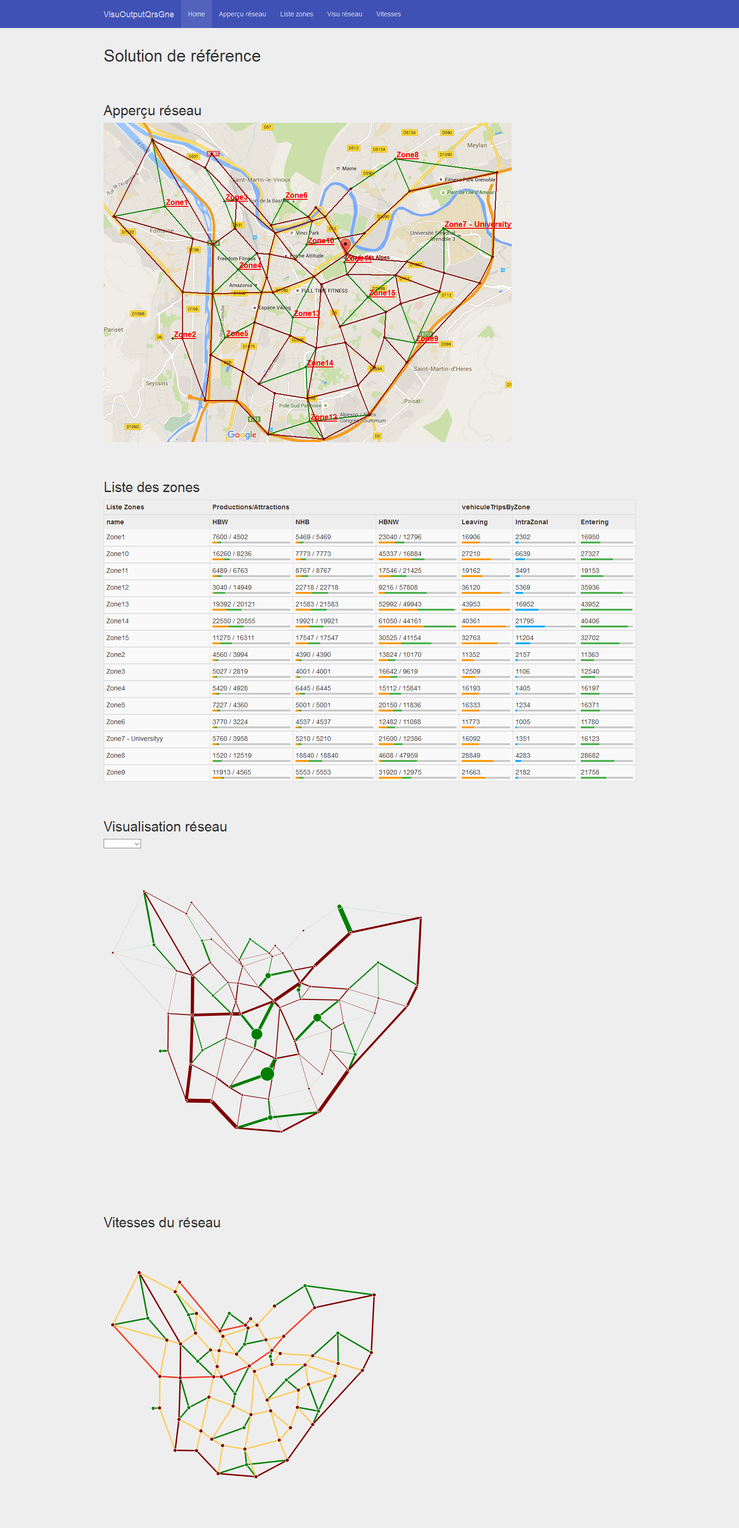
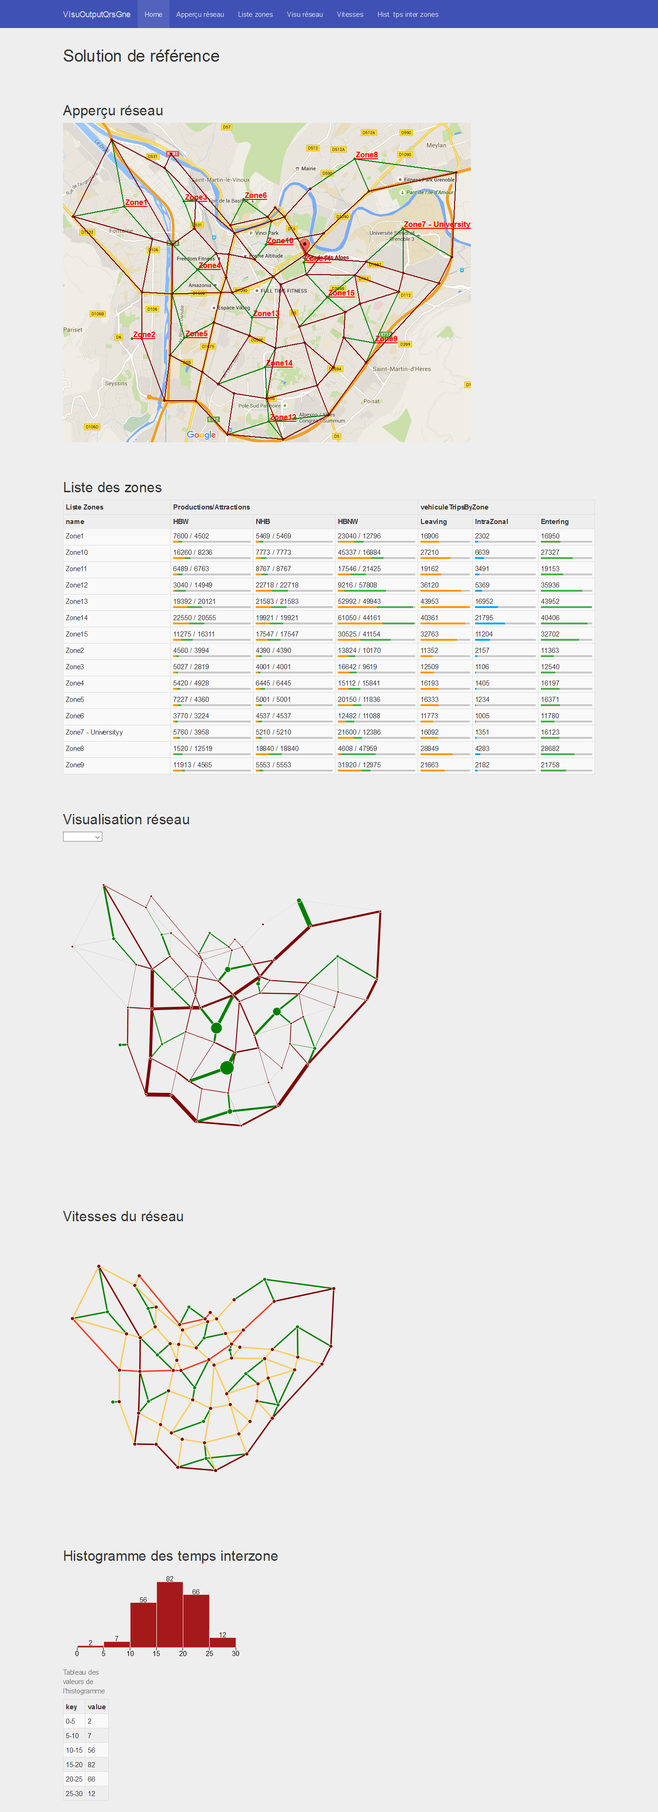
ajout d'un histogramme sur la répartition des temps interzone du réseau

Changed region(s): [[0.0936, 0.0, 0.905, 0.8103], [0.0936, 0.8414, 0.4993, 0.9973], [0.4993, 0.6544, 0.5305, 0.6856]]

diff --git a/css/style.css b/css/style.css
@@ -1,1 +1,1 @@
-*{-moz-box-sizing:border-box;-webkit-box-sizing:border-box;box-sizing:border-box}body{margin-top:80px}.caretUp,.caretDown{width:0px;height:0px;margin-left:2px;vertical-align:middle;display:inline-block;border-right:4px solid transparent;border-left:4px solid transparent;border-bottom:4px dashed;border-top:none}.caretDown{border-top:4px dashed;border-bottom:none}.lineCtrl .progress{margin-bottom:0}.cliquable{cursor:pointer}.vertical{display:inline-block;width:28px;height:5px;-moz-transform:rotate(-90deg);-ms-transform:rotate(-90deg);-webkit-transform:rotate(-90deg);transform:rotate(-90deg)}.panneau{background-color:#eee;position:absolute;top:0;left:0;right:0;bottom:0;width:100%;height:100%;overflow-x:hidden;overflow-y:scroll;-webkit-overflow-scrolling:touch;-moz-transition-duration:0.3s;-o-transition-duration:0.3s;-webkit-transition-duration:0.3s;transition-duration:0.3s;z-index:5}.panneau-padding{padding:0 20px}.panneau-homeMap{overflow:hidden}.left{-moz-transform:translate3D(-100%, 0, 0);-ms-transform:translate3D(-100%, 0, 0);-webkit-transform:translate3D(-100%, 0, 0);transform:translate3D(-100%, 0, 0)}.center{-moz-transform:translate3D(0, 0, 0);-ms-transform:translate3D(0, 0, 0);-webkit-transform:translate3D(0, 0, 0);transform:translate3D(0, 0, 0)}.right{-moz-transform:translate3D(100%, 0, 0);-ms-transform:translate3D(100%, 0, 0);-webkit-transform:translate3D(100%, 0, 0);transform:translate3D(100%, 0, 0)}.top{-moz-transform:translate3D(0, -100%, 0);-ms-transform:translate3D(0, -100%, 0);-webkit-transform:translate3D(0, -100%, 0);transform:translate3D(0, -100%, 0)}.bottom{-moz-transform:translate3D(0, 100%, 0);-ms-transform:translate3D(0, 100%, 0);-webkit-transform:translate3D(0, 100%, 0);transform:translate3D(0, 100%, 0)}.back{-moz-transition-duration:0.3s;-o-transition-duration:0.3s;-webkit-transition-duration:0.3s;transition-duration:0.3s;position:absolute;top:0;left:0;z-index:10}.notice{position:absolute;left:50%;top:50%;height:auto;width:auto;text-align:center;transform:translateX(-50%) translateY(-50%);z-index:100;background-color:#C7C7C7;padding:10px;-moz-border-radius:5px;-webkit-border-radius:5px;border-radius:5px}.glyphicon-map-marker{background-image:url("../img/maps/svg/ic_place_24px.svg");background-position:0 0;background-size:24px 24px;height:24px;width:24px}.glyphicon-map-marker:before{content:""}.glyphicon-bike{background-image:url("../img/maps/svg/ic_directions_bike_24px.svg");background-position:0 0;background-size:24px 24px;height:24px;width:24px}.glyphicon-bike:before{content:""}.glyphicon-ferry{background-image:url("../img/maps/svg/ic_directions_ferry_24px.svg");background-position:0 0;background-size:24px 24px;height:24px;width:24px}.glyphicon-ferry:before{content:""}.glyphicon-car{background-image:url("../img/maps/svg/ic_directions_car_24px.svg");background-position:0 0;background-size:24px 24px;height:24px;width:24px}.glyphicon-car:before{content:""}.glyphicon-train{background-image:url("../img/maps/svg/ic_directions_train_24px.svg");background-position:0 0;background-size:24px 24px;height:24px;width:24px}.glyphicon-train:before{content:""}.glyphicon-metro{background-image:url("../img/maps/svg/ic_directions_subway_24px.svg");background-position:0 0;background-size:24px 24px;height:24px;width:24px}.glyphicon-metro:before{content:""}.glyphicon-bus{background-image:url("../img/maps/svg/ic_directions_bus_24px.svg");background-position:0 0;background-size:24px 24px;height:24px;width:24px}.glyphicon-bus:before{content:""}.glyphicon-foot{background-image:url("../img/maps/svg/ic_directions_walk_24px.svg");background-position:0 0;background-size:24px 24px;height:24px;width:24px}.glyphicon-foot:before{content:""}.glyphicon-my-location{background-image:url("../img/maps/svg/ic_my_location_24px.svg");background-position:0 0;background-size:24px 24px;height:24px;width:24px}.glyphicon-my-location:before{content:""}.btn-fa-container{margin-bottom:6px;position:absolute;bottom:0;right:0;z-index:100;-moz-transition-duration:0.3s;-o-transition-duration:0.3s;-webkit-transition-duration:0.3s;transition-duration:0.3s;-moz-transform:translate3D(0, 0, 0);-ms-transform:translate3D(0, 0, 0);-webkit-transform:translate3D(0, 0, 0);transform:translate3D(0, 0, 0)}.btn-fa-container.showBottomSheet{-moz-transform:translate3D(0, -56px, 0);-ms-transform:translate3D(0, -56px, 0);-webkit-transform:translate3D(0, -56px, 0);transform:translate3D(0, -56px, 0)}.btn-fa{width:56px;height:56px;line-height:56px;-moz-border-radius:50%;-webkit-border-radius:50%;border-radius:50%;margin:0 16px 16px 0;display:block;outline:none;text-align:center;-moz-box-shadow:rgba(0,0,0,0.14) 0px 0px 4px,rgba(0,0,0,0.28) 0px 4px 8px;-webkit-box-shadow:rgba(0,0,0,0.14) 0px 0px 4px,rgba(0,0,0,0.28) 0px 4px 8px;box-shadow:rgba(0,0,0,0.14) 0px 0px 4px,rgba(0,0,0,0.28) 0px 4px 8px}.btn-fa:hover,.btn-fa:active{-moz-box-shadow:rgba(0,0,0,0.18) 0 0 8px,rgba(0,0,0,0.36) 0 8px 16px;-webkit-box-shadow:rgba(0,0,0,0.18) 0 0 8px,rgba(0,0,0,0.36) 0 8px 16px;box-shadow:rgba(0,0,0,0.18) 0 0 8px,rgba(0,0,0,0.36) 0 8px 16px;-moz-transition-duration:0.3s;-o-transition-duration:0.3s;-webkit-transition-duration:0.3s;transition-duration:0.3s;outline:none}.btn-fa-gps,.btn-fa-gps:active{background:#fff url("../img/maps/svg/ic_my_location_24px.svg") center center no-repeat !important}.btn-fa-gps:active{background-color:#eee;-moz-transition-duration:0.3s;-o-transition-duration:0.3s;-webkit-transition-duration:0.3s;transition-duration:0.3s}.btn-fa-trip,.btn-fa-trip:active{background:#4285f4 url("../img/maps/1x_web/ic_directions_white_24dp.png") center center no-repeat !important}.btn-fa-trip:active{background-color:#79a8fa;-moz-transition-duration:0.3s;-o-transition-duration:0.3s;-webkit-transition-duration:0.3s;transition-duration:0.3s}.axis path,.axis line{fill:none;stroke:#000;shape-rendering:crispEdges}.bar{fill:#a6191b}.bar:hover{fill:#fec503}.x.axis path{display:none}.d3-tip{line-height:1;padding:12px;background:rgba(0,0,0,0.8);color:#fff;border-radius:2px}.d3-tip:after{box-sizing:border-box;display:inline;font-size:10px;width:100%;line-height:1;color:rgba(0,0,0,0.8);content:"\25BC";position:absolute;text-align:center}.d3-tip.n:after{margin:-1px 0 0 0;top:100%;left:0}.bar-default .bar{fill:#009688}.bar-black .bar{fill:#000000}.bar-white .bar{fill:#ffffff}.bar-inverse .bar{fill:#3f51b5}.bar-primary .bar{fill:#009688}.bar-success .bar{fill:#4caf50}.bar-info .bar{fill:#03a9f4}.bar-warning .bar{fill:#ff5722}.bar-danger .bar{fill:#f44336}.bar-material-red .bar{fill:#f44336}.bar-material-pink .bar{fill:#e91e63}.bar-material-purple .bar{fill:#9c27b0}.bar-material-deep-purple .bar{fill:#673ab7}.bar-material-indigo .bar{fill:#3f51b5}.bar-material-blue .bar{fill:#2196f3}.bar-material-light-blue .bar{fill:#03a9f4}.bar-material-cyan .bar{fill:#00bcd4}.bar-material-teal .bar{fill:#009688}.bar-material-green .bar{fill:#4caf50}.bar-material-light-green .bar{fill:#8bc34a}.bar-material-lime .bar{fill:#cddc39}.bar-material-yellow .bar{fill:#ffeb3b}.bar-material-amber .bar{fill:#ffc107}.bar-material-orange .bar{fill:#ff9800}.bar-material-deep-orange .bar{fill:#ff5722}.bar-material-brown .bar{fill:#795548}.bar-material-grey .bar{fill:#9e9e9e}.bar-material-blue-grey .bar{fill:#607d8b}
+*{-moz-box-sizing:border-box;-webkit-box-sizing:border-box;box-sizing:border-box}body{margin-top:80px}.caretUp,.caretDown{width:0px;height:0px;margin-left:2px;vertical-align:middle;display:inline-block;border-right:4px solid transparent;border-left:4px solid transparent;border-bottom:4px dashed;border-top:none}.caretDown{border-top:4px dashed;border-bottom:none}.lineCtrl .progress{margin-bottom:0}.cliquable{cursor:pointer}.vertical{display:inline-block;width:28px;height:5px;-moz-transform:rotate(-90deg);-ms-transform:rotate(-90deg);-webkit-transform:rotate(-90deg);transform:rotate(-90deg)}.panneau{background-color:#eee;position:absolute;top:0;left:0;right:0;bottom:0;width:100%;height:100%;overflow-x:hidden;overflow-y:scroll;-webkit-overflow-scrolling:touch;-moz-transition-duration:0.3s;-o-transition-duration:0.3s;-webkit-transition-duration:0.3s;transition-duration:0.3s;z-index:5}.panneau-padding{padding:0 20px}.panneau-homeMap{overflow:hidden}.left{-moz-transform:translate3D(-100%, 0, 0);-ms-transform:translate3D(-100%, 0, 0);-webkit-transform:translate3D(-100%, 0, 0);transform:translate3D(-100%, 0, 0)}.center{-moz-transform:translate3D(0, 0, 0);-ms-transform:translate3D(0, 0, 0);-webkit-transform:translate3D(0, 0, 0);transform:translate3D(0, 0, 0)}.right{-moz-transform:translate3D(100%, 0, 0);-ms-transform:translate3D(100%, 0, 0);-webkit-transform:translate3D(100%, 0, 0);transform:translate3D(100%, 0, 0)}.top{-moz-transform:translate3D(0, -100%, 0);-ms-transform:translate3D(0, -100%, 0);-webkit-transform:translate3D(0, -100%, 0);transform:translate3D(0, -100%, 0)}.bottom{-moz-transform:translate3D(0, 100%, 0);-ms-transform:translate3D(0, 100%, 0);-webkit-transform:translate3D(0, 100%, 0);transform:translate3D(0, 100%, 0)}.back{-moz-transition-duration:0.3s;-o-transition-duration:0.3s;-webkit-transition-duration:0.3s;transition-duration:0.3s;position:absolute;top:0;left:0;z-index:10}.notice{position:absolute;left:50%;top:50%;height:auto;width:auto;text-align:center;transform:translateX(-50%) translateY(-50%);z-index:100;background-color:#C7C7C7;padding:10px;-moz-border-radius:5px;-webkit-border-radius:5px;border-radius:5px}.glyphicon-map-marker{background-image:url("../img/maps/svg/ic_place_24px.svg");background-position:0 0;background-size:24px 24px;height:24px;width:24px}.glyphicon-map-marker:before{content:""}.glyphicon-bike{background-image:url("../img/maps/svg/ic_directions_bike_24px.svg");background-position:0 0;background-size:24px 24px;height:24px;width:24px}.glyphicon-bike:before{content:""}.glyphicon-ferry{background-image:url("../img/maps/svg/ic_directions_ferry_24px.svg");background-position:0 0;background-size:24px 24px;height:24px;width:24px}.glyphicon-ferry:before{content:""}.glyphicon-car{background-image:url("../img/maps/svg/ic_directions_car_24px.svg");background-position:0 0;background-size:24px 24px;height:24px;width:24px}.glyphicon-car:before{content:""}.glyphicon-train{background-image:url("../img/maps/svg/ic_directions_train_24px.svg");background-position:0 0;background-size:24px 24px;height:24px;width:24px}.glyphicon-train:before{content:""}.glyphicon-metro{background-image:url("../img/maps/svg/ic_directions_subway_24px.svg");background-position:0 0;background-size:24px 24px;height:24px;width:24px}.glyphicon-metro:before{content:""}.glyphicon-bus{background-image:url("../img/maps/svg/ic_directions_bus_24px.svg");background-position:0 0;background-size:24px 24px;height:24px;width:24px}.glyphicon-bus:before{content:""}.glyphicon-foot{background-image:url("../img/maps/svg/ic_directions_walk_24px.svg");background-position:0 0;background-size:24px 24px;height:24px;width:24px}.glyphicon-foot:before{content:""}.glyphicon-my-location{background-image:url("../img/maps/svg/ic_my_location_24px.svg");background-position:0 0;background-size:24px 24px;height:24px;width:24px}.glyphicon-my-location:before{content:""}.btn-fa-container{margin-bottom:6px;position:absolute;bottom:0;right:0;z-index:100;-moz-transition-duration:0.3s;-o-transition-duration:0.3s;-webkit-transition-duration:0.3s;transition-duration:0.3s;-moz-transform:translate3D(0, 0, 0);-ms-transform:translate3D(0, 0, 0);-webkit-transform:translate3D(0, 0, 0);transform:translate3D(0, 0, 0)}.btn-fa-container.showBottomSheet{-moz-transform:translate3D(0, -56px, 0);-ms-transform:translate3D(0, -56px, 0);-webkit-transform:translate3D(0, -56px, 0);transform:translate3D(0, -56px, 0)}.btn-fa{width:56px;height:56px;line-height:56px;-moz-border-radius:50%;-webkit-border-radius:50%;border-radius:50%;margin:0 16px 16px 0;display:block;outline:none;text-align:center;-moz-box-shadow:rgba(0,0,0,0.14) 0px 0px 4px,rgba(0,0,0,0.28) 0px 4px 8px;-webkit-box-shadow:rgba(0,0,0,0.14) 0px 0px 4px,rgba(0,0,0,0.28) 0px 4px 8px;box-shadow:rgba(0,0,0,0.14) 0px 0px 4px,rgba(0,0,0,0.28) 0px 4px 8px}.btn-fa:hover,.btn-fa:active{-moz-box-shadow:rgba(0,0,0,0.18) 0 0 8px,rgba(0,0,0,0.36) 0 8px 16px;-webkit-box-shadow:rgba(0,0,0,0.18) 0 0 8px,rgba(0,0,0,0.36) 0 8px 16px;box-shadow:rgba(0,0,0,0.18) 0 0 8px,rgba(0,0,0,0.36) 0 8px 16px;-moz-transition-duration:0.3s;-o-transition-duration:0.3s;-webkit-transition-duration:0.3s;transition-duration:0.3s;outline:none}.btn-fa-gps,.btn-fa-gps:active{background:#fff url("../img/maps/svg/ic_my_location_24px.svg") center center no-repeat !important}.btn-fa-gps:active{background-color:#eee;-moz-transition-duration:0.3s;-o-transition-duration:0.3s;-webkit-transition-duration:0.3s;transition-duration:0.3s}.btn-fa-trip,.btn-fa-trip:active{background:#4285f4 url("../img/maps/1x_web/ic_directions_white_24dp.png") center center no-repeat !important}.btn-fa-trip:active{background-color:#79a8fa;-moz-transition-duration:0.3s;-o-transition-duration:0.3s;-webkit-transition-duration:0.3s;transition-duration:0.3s}.axis path,.axis line{fill:none;stroke:#000;shape-rendering:crispEdges}.bar{fill:#a6191b}.bar:hover{fill:#fec503}.x.axis path{display:none}.d3-tip{line-height:1;padding:12px;background:rgba(0,0,0,0.8);color:#fff;border-radius:2px}.d3-tip:after{box-sizing:border-box;display:inline;font-size:10px;width:100%;line-height:1;color:rgba(0,0,0,0.8);content:"\25BC";position:absolute;text-align:center}.d3-tip.n:after{margin:-1px 0 0 0;top:100%;left:0}.bar text{fill:#222}.bar-default .bar{fill:#009688}.bar-black .bar{fill:#000000}.bar-white .bar{fill:#ffffff}.bar-inverse .bar{fill:#3f51b5}.bar-primary .bar{fill:#009688}.bar-success .bar{fill:#4caf50}.bar-info .bar{fill:#03a9f4}.bar-warning .bar{fill:#ff5722}.bar-danger .bar{fill:#f44336}.bar-material-red .bar{fill:#f44336}.bar-material-pink .bar{fill:#e91e63}.bar-material-purple .bar{fill:#9c27b0}.bar-material-deep-purple .bar{fill:#673ab7}.bar-material-indigo .bar{fill:#3f51b5}.bar-material-blue .bar{fill:#2196f3}.bar-material-light-blue .bar{fill:#03a9f4}.bar-material-cyan .bar{fill:#00bcd4}.bar-material-teal .bar{fill:#009688}.bar-material-green .bar{fill:#4caf50}.bar-material-light-green .bar{fill:#8bc34a}.bar-material-lime .bar{fill:#cddc39}.bar-material-yellow .bar{fill:#ffeb3b}.bar-material-amber .bar{fill:#ffc107}.bar-material-orange .bar{fill:#ff9800}.bar-material-deep-orange .bar{fill:#ff5722}.bar-material-brown .bar{fill:#795548}.bar-material-grey .bar{fill:#9e9e9e}.bar-material-blue-grey .bar{fill:#607d8b}

diff --git a/js/components/timehistogram.js b/js/components/timehistogram.js
@@ -1,0 +1,108 @@
+app.directive('timehistogram', function($rootScope) {
+    return {
+        restrict: 'EA',
+        scope: {
+          odtemps: "="
+        },
+        link: function(scope, iElement, iAttrs) {
+            var margin = {top: 30, right: 30, bottom: 30, left: 30},
+            width = 400 - margin.left - margin.right,
+            height = 200 - margin.top - margin.bottom;
+
+            var x = d3.scale.linear().range([0, width]);
+            // var x = d3.time.scale().range([0, width], .2).domain(scope.range);
+            // var widthBar = x(d3.time.day.offset(scope.range[0], +1)) - x(scope.range[0]) -1
+            // var xAxis = d3.svg.axis().scale(x).orient("bottom").ticks(d3.time.week, 1).tickFormat("")
+
+            var y = d3.scale.linear().range([height, 0]);
+
+            tip = $rootScope.tip
+
+            var svg = d3.select(iElement[0]).append("svg")
+                .attr("width", width + margin.left + margin.right)
+                .attr("height", height + margin.top + margin.bottom)
+              .append("g")
+                .attr("transform", "translate(" + margin.left + "," + margin.top + ")");
+            
+            svg.call(tip);
+
+            // watch for data changes and re-render
+            // scope.$watch('data', function(newVals, oldVals) {
+            //     if (newVals.rendervisu.perdayload == true){ newVals.rendervisu.perdayload = false
+            //         return scope.render(newVals);
+            //     }else console.log("won't render perdayload", oldVals, newVals);
+            // }, true);
+
+            scope.render = function(odtemps){
+                values = []
+                _.each(odtemps, function(z) {
+                    zValues = z.od.split(",")
+                    zValues.shift()
+                    _.each(zValues, function(v) {
+                        values.push(parseInt(v))
+                    });
+                });
+
+                console.log("values", values); 
+                maxValues = d3.max(values);
+                console.log("maxValues", maxValues); 
+                maxValues = maxValues + 5 - maxValues % 5;
+                console.log("maxValues", maxValues); 
+                nbBins = parseInt(maxValues / 5)
+                x.domain([0, maxValues]);
+                console.log("nbBins", nbBins); 
+
+                // Generate a histogram using twenty uniformly-spaced bins.
+                var data = d3.layout.histogram().bins(x.ticks(nbBins))(values);
+                console.log("data", data); 
+
+                y.domain([0, d3.max(data, function(d) { return d.y; })]);
+                var xAxis = d3.svg.axis().scale(x).orient("bottom");
+
+                var bar = svg.selectAll(".bar")
+                    .data(data)
+                  .enter().append("g")
+                    .attr("class", "bar")
+                    .attr("transform", function(d) { return "translate(" + x(d.x) + "," + y(d.y) + ")"; });
+
+                bar.append("rect")
+                    .attr("x", 1)
+                    .attr("width", x(data[0].dx) - 1)
+                    .attr("height", function(d) { return height - y(d.y); })
+                    .on('mouseover', function(d) {
+                        tip.show("x:"+d.x+", y:"+d.y);
+                    })
+                    .on('mouseout', tip.hide);
+
+                bar.append("text")
+                    .attr("dy", ".35em")
+                    .attr("y", -6)
+                    .attr("x", x(data[0].dx) / 2)
+                    .attr("text-anchor", "middle")
+                    .text(function(d) { return d.y; });
+
+                svg.append("g")
+                    .attr("class", "x axis")
+                    .attr("transform", "translate(0," + height + ")")
+                    .call(xAxis);
+
+                var table = d3.select(iElement[0]).append("table").attr("class", "table-condensed table-striped table-bordered ")
+                table.append("caption").text("Tableau des valeurs de l'histogramme")
+                var thead = table.append("thead").append('tr'),
+                    tbody = table.append("tbody");
+
+                thead.append("th").text("key")
+                thead.append("th").text("value")
+                var rows = tbody.selectAll("tr")
+                    .data(data)
+                  .enter()
+                    .append("tr");
+                rows.append("td").text(function(d) {return d.x+"-"+(d.x+d.dx);})
+                rows.append("td").text(function(d) {return d.y;})
+
+            };
+            scope.render(scope.odtemps);
+        }
+    };
+});
+

diff --git a/index.html b/index.html
@@ -35,6 +35,7 @@
                 <li><a href="#listZones">Liste zones</a></li>
                 <li><a href="#visuReseau">Visu réseau</a></li>
                 <li><a href="#networkspeeds">Vitesses</a></li>
+                <li><a href="#timehistogram">Hist. tps inter zones</a></li>
               </ul>
             </div><!--/.nav-collapse -->
           </div>
@@ -126,13 +127,16 @@
                 <networkvisu nodes="nodes_json" links="links_json" zones="zones_json" spatialextent="networkSpatialExtent" loadvisu="loadvisu"></networkvisu>
                 <h2 id="networkspeeds" style="padding-top: 60px;">Vitesses du réseau</h2>
                 <networkspeeds nodes="nodes_json" links="links_json" zones="zones_json" spatialextent="networkSpatialExtent" loadvisu="loadvisu"></networkspeeds>
+                <h2 id="timehistogram" style="padding-top: 60px;">Histogramme des temps interzone</h2>
+                <timehistogram odtemps="zonesODCTimes_json"></timehistogram>
             </section>
 
         </div><!-- /.container -->
 
-        <script src="output_json/nodes_json_v5.js"></script>
-        <script src="output_json/links_json_v5.js"></script>
-        <script src="output_json/zones_json_v5.js"></script>
+        <script src="output_json/nodes_json_v1.js"></script>
+        <script src="output_json/links_json_v1.js"></script>
+        <script src="output_json/zones_json_v1.js"></script>
+        <script src="output_json/zonesODCTimes_json_v1.js"></script>
 
         <script src="js/lib/lodash.min.js"></script>
         <!-- <script src="js/lib/jquery.js"></script> -->
@@ -152,5 +156,6 @@
         <script src="js/components/modal/modal.js"></script>
         <script src="js/components/networkvisu.js"></script>
         <script src="js/components/networkspeeds.js"></script>
+        <script src="js/components/timehistogram.js"></script>
     </body>
 </html>

diff --git a/output_json/zonesODCTimes_json_v2.js b/output_json/zonesODCTimes_json_v2.js
@@ -1,0 +1,17 @@
+var zonesODCTimes_json = [
+    {"od": "1,20,16,13,12,14,18,28,31,29,18,24,24,18,21,26", "id": 1, "zoneName": "Zone1"},
+    {"od": "2,16,14,19,18,15,22,29,33,26,22,24,18,19,18,27", "id": 2, "zoneName": "Zone2"},
+    {"od": "3,13,19,18,12,15,13,24,26,26,14,19,24,14,21,22", "id": 3, "zoneName": "Zone3"},
+    {"od": "4,12,18,12,14,12,13,21,26,22,12,16,19,11,17,19", "id": 4, "zoneName": "Zone4"},
+    {"od": "5,14,15,14,12,18,17,24,28,21,16,19,16,12,14,19", "id": 5, "zoneName": "Zone5"},
+    {"od": "6,18,22,13,13,17,20,19,22,22,10,14,24,14,21,20", "id": 6, "zoneName": "Zone6"},
+    {"od": "7,28,29,24,21,24,19,20,19,11,16,15,20,18,21,11", "id": 7, "zoneName": "Zone7 - Universityy"},
+    {"od": "8,31,33,27,26,28,22,19,20,23,19,19,29,22,29,25", "id": 8, "zoneName": "Zone8"},
+    {"od": "9,29,26,26,22,21,22,11,23,20,19,15,13,19,17,11", "id": 9, "zoneName": "Zone9"},
+    {"od": "10,18,22,14,12,16,10,16,19,19,10,11,23,12,19,17", "id": 10, "zoneName": "Zone10"},
+    {"od": "11,24,24,19,16,19,14,15,19,15,11,6,21,13,17,13", "id": 11, "zoneName": "Zone11"},
+    {"od": "12,24,18,24,19,16,23,20,29,13,23,21,20,16,13,16", "id": 12, "zoneName": "Zone12"},
+    {"od": "13,18,18,14,11,12,14,18,22,19,12,13,16,8,13,15", "id": 13, "zoneName": "Zone13"},
+    {"od": "14,21,18,21,17,14,21,21,29,16,19,17,13,13,10,14", "id": 14, "zoneName": "Zone14"},
+    {"od": "15,26,26,22,19,19,20,11,25,11,17,13,16,15,14,12", "id": 15, "zoneName": "Zone15"}
+]

diff --git a/output_json/zonesODCTimes_json_v0.0.js b/output_json/zonesODCTimes_json_v0.0.js
@@ -1,0 +1,17 @@
+var zonesODCTimes_json = [
+    {"id": 1, "zoneName": "Zone1", "od": "1,10,30,20,20,30,40,90,90,90,50,70,60,50,60,80"},
+    {"id": 2, "zoneName": "Zone2", "od": "2,30,7,50,40,30,70,90,90,70,70,70,40,50,50,80"},
+    {"id": 3, "zoneName": "Zone3", "od": "3,20,50,9,20,30,30,70,70,80,30,50,70,40,60,60"},
+    {"id": 4, "zoneName": "Zone4", "od": "4,20,40,20,7,20,40,60,60,70,30,40,50,20,40,50"},
+    {"id": 5, "zoneName": "Zone5", "od": "5,30,30,30,20,9,60,70,70,60,50,50,40,20,30,50"},
+    {"id": 6, "zoneName": "Zone6", "od": "6,40,70,30,40,60,10,70,60,80,20,50,70,40,60,60"},
+    {"id": 7, "zoneName": "Zone7 - Universityy", "od": "7,90,90,70,60,70,70,10,30,20,40,30,40,40,50,20"},
+    {"id": 8, "zoneName": "Zone8", "od": "8,90,90,70,60,70,60,30,10,50,30,30,60,40,60,60"},
+    {"id": 9, "zoneName": "Zone9", "od": "9,90,70,80,70,60,80,20,50,10,60,30,20,50,40,20"},
+    {"id": 10, "zoneName": "Zone10", "od": "10,50,70,30,30,50,20,40,30,60,5,20,50,20,40,40"},
+    {"id": 11, "zoneName": "Zone11", "od": "11,70,70,50,40,50,50,30,30,30,20,3,40,20,30,20"},
+    {"id": 12, "zoneName": "Zone12", "od": "12,60,40,70,50,40,70,40,60,20,50,40,10,30,20,40"},
+    {"id": 13, "zoneName": "Zone13", "od": "13,50,50,40,20,20,40,40,40,50,20,20,30,4,20,30"},
+    {"id": 14, "zoneName": "Zone14", "od": "14,60,50,60,40,30,60,50,60,40,40,30,20,20,5,30"},
+    {"id": 15, "zoneName": "Zone15", "od": "15,80,80,60,50,50,60,20,60,20,40,20,40,30,30,6"}
+]

diff --git a/output_json/zonesODCTimes_json_v0.js b/output_json/zonesODCTimes_json_v0.js
@@ -1,0 +1,17 @@
+var zonesODCTimes_json = [
+    {"zoneName": "Zone1", "id": 1, "od": "1,10,16,13,12,14,18,28,30,29,18,23,23,18,21,25"},
+    {"zoneName": "Zone2", "id": 2, "od": "2,16,7,19,17,15,22,28,32,26,21,24,18,18,18,26"},
+    {"zoneName": "Zone3", "id": 3, "od": "3,13,19,9,12,14,13,23,26,25,14,18,23,14,21,22"},
+    {"zoneName": "Zone4", "id": 4, "od": "4,12,17,12,7,12,13,21,25,22,12,16,19,11,17,19"},
+    {"zoneName": "Zone5", "id": 5, "od": "5,14,15,14,12,9,16,23,27,21,16,19,16,12,14,19"},
+    {"zoneName": "Zone6", "id": 6, "od": "6,18,22,13,13,16,10,19,21,22,10,14,23,14,21,20"},
+    {"zoneName": "Zone7 - Universityy", "id": 7, "od": "7,28,28,23,21,23,19,10,19,11,16,15,20,18,20,11"},
+    {"zoneName": "Zone8", "id": 8, "od": "8,30,32,26,25,27,21,19,10,23,18,19,28,21,28,24"},
+    {"zoneName": "Zone9", "id": 9, "od": "9,29,26,25,22,21,22,11,23,10,19,15,13,19,16,11"},
+    {"zoneName": "Zone10", "id": 10, "od": "10,18,21,14,12,16,10,16,18,19,5,11,22,12,19,17"},
+    {"zoneName": "Zone11", "id": 11, "od": "11,23,24,18,16,19,14,15,19,15,11,3,20,13,17,14"},
+    {"zoneName": "Zone12", "id": 12, "od": "12,23,18,23,19,16,23,20,28,13,22,20,10,16,13,16"},
+    {"zoneName": "Zone13", "id": 13, "od": "13,18,18,14,11,12,14,18,21,19,12,13,16,4,13,15"},
+    {"zoneName": "Zone14", "id": 14, "od": "14,21,18,21,17,14,21,21,28,16,19,17,13,13,5,14"},
+    {"zoneName": "Zone15", "id": 15, "od": "15,25,26,22,19,19,20,11,24,11,17,14,16,15,14,6"}
+]

diff --git a/output_json/zonesODCTimes_json_v1.js b/output_json/zonesODCTimes_json_v1.js
@@ -1,0 +1,17 @@
+var zonesODCTimes_json = [
+    {"zoneName": "Zone1", "id": 1, "od": "1,10,18,14,12,13,17,24,25,22,19,20,18,16,21,26"},
+    {"zoneName": "Zone2", "id": 2, "od": "2,18,7,19,17,16,24,24,27,21,24,23,18,19,21,26"},
+    {"zoneName": "Zone3", "id": 3, "od": "3,14,19,9,12,14,14,25,23,22,15,19,18,15,21,24"},
+    {"zoneName": "Zone4", "id": 4, "od": "4,12,17,12,7,11,13,21,19,20,13,15,16,11,18,20"},
+    {"zoneName": "Zone5", "id": 5, "od": "5,13,16,14,11,9,19,20,21,17,18,17,13,12,16,21"},
+    {"zoneName": "Zone6", "id": 6, "od": "6,17,24,14,13,19,10,22,19,25,10,16,23,16,24,23"},
+    {"zoneName": "Zone7 - Universityy", "id": 7, "od": "7,24,24,25,21,20,22,10,13,11,19,16,14,18,21,12"},
+    {"zoneName": "Zone8", "id": 8, "od": "8,25,27,23,19,21,19,13,10,16,16,14,18,17,24,20"},
+    {"zoneName": "Zone9", "id": 9, "od": "9,22,21,22,20,17,25,11,16,10,22,17,12,21,18,11"},
+    {"zoneName": "Zone10", "id": 10, "od": "10,19,24,15,13,18,10,19,16,22,5,13,23,14,22,20"},
+    {"zoneName": "Zone11", "id": 11, "od": "11,20,23,19,15,17,16,16,14,17,13,3,22,12,18,15"},
+    {"zoneName": "Zone12", "id": 12, "od": "12,18,18,18,16,13,23,14,18,12,23,22,10,18,14,16"},
+    {"zoneName": "Zone13", "id": 13, "od": "13,17,19,15,11,12,16,18,16,21,14,12,18,4,14,17"},
+    {"zoneName": "Zone14", "id": 14, "od": "14,21,21,21,18,16,24,21,24,18,21,18,14,14,5,16"},
+    {"zoneName": "Zone15", "id": 15, "od": "15,26,26,24,20,21,23,12,20,11,21,15,16,17,16,6"}
+]

diff --git a/output_json/zonesODCTimes_json_v3.js b/output_json/zonesODCTimes_json_v3.js
@@ -1,0 +1,17 @@
+var zonesODCTimes_json = [
+    {"zoneName": "Zone1", "id": 1, "od": "1,10,19,14,13,16,19,30,32,31,21,25,26,20,23,27"},
+    {"zoneName": "Zone2", "id": 2, "od": "2,18,7,22,19,17,23,30,34,27,23,26,19,21,20,28"},
+    {"zoneName": "Zone3", "id": 3, "od": "3,14,22,9,12,15,14,23,26,25,15,19,24,15,21,22"},
+    {"zoneName": "Zone4", "id": 4, "od": "4,13,19,12,7,12,12,21,24,22,13,16,19,11,16,18"},
+    {"zoneName": "Zone5", "id": 5, "od": "5,16,17,15,12,9,16,23,26,20,16,19,17,12,14,18"},
+    {"zoneName": "Zone6", "id": 6, "od": "6,19,23,14,12,16,10,19,21,21,10,14,23,14,20,19"},
+    {"zoneName": "Zone7 - Universityy", "id": 7, "od": "7,30,30,23,21,23,19,10,19,11,15,14,20,17,20,11"},
+    {"zoneName": "Zone8", "id": 8, "od": "8,32,34,26,24,26,21,19,10,23,18,18,28,21,26,23"},
+    {"zoneName": "Zone9", "id": 9, "od": "9,31,27,25,22,20,21,11,23,10,18,15,13,18,16,11"},
+    {"zoneName": "Zone10", "id": 10, "od": "10,21,23,15,13,16,10,15,18,18,5,11,21,12,18,17"},
+    {"zoneName": "Zone11", "id": 11, "od": "11,25,26,19,16,19,14,14,18,15,11,3,19,13,16,13"},
+    {"zoneName": "Zone12", "id": 12, "od": "12,26,19,24,19,17,23,20,28,13,21,19,10,15,13,16"},
+    {"zoneName": "Zone13", "id": 13, "od": "13,20,21,15,11,12,14,17,21,18,12,13,15,4,12,15"},
+    {"zoneName": "Zone14", "id": 14, "od": "14,23,20,21,16,14,20,20,26,16,18,16,13,12,5,14"},
+    {"zoneName": "Zone15", "id": 15, "od": "15,27,28,22,18,18,19,11,23,11,17,13,16,15,14,6"}
+]

diff --git a/output_json/zonesODCTimes_json_v4.js b/output_json/zonesODCTimes_json_v4.js
@@ -1,0 +1,17 @@
+var zonesODCTimes_json = [
+    {"od": "1,10,18,14,13,16,19,34,37,34,21,28,26,20,24,30", "zoneName": "Zone1", "id": 1},
+    {"od": "2,18,7,23,20,17,26,35,40,28,25,29,20,21,21,31", "zoneName": "Zone2", "id": 2},
+    {"od": "3,14,23,9,12,16,14,28,31,29,15,22,26,16,24,26", "zoneName": "Zone3", "id": 3},
+    {"od": "4,13,20,12,7,13,13,25,30,25,13,18,21,11,19,21", "zoneName": "Zone4", "id": 4},
+    {"od": "5,16,17,16,13,9,19,28,33,24,19,22,17,13,15,22", "zoneName": "Zone5", "id": 5},
+    {"od": "6,19,26,14,13,19,10,23,26,26,10,16,27,16,24,23", "zoneName": "Zone6", "id": 6},
+    {"od": "7,34,35,28,25,28,23,10,20,11,19,16,20,20,22,11", "zoneName": "Zone7 - Universityy", "id": 7},
+    {"od": "8,37,40,31,30,33,26,20,10,25,22,22,30,26,33,27", "zoneName": "Zone8", "id": 8},
+    {"od": "9,34,28,29,25,24,26,11,25,10,22,16,14,21,17,11", "zoneName": "Zone9", "id": 9},
+    {"od": "10,21,25,15,13,19,10,19,22,22,5,13,27,14,22,20", "zoneName": "Zone10", "id": 10},
+    {"od": "11,27,29,22,19,22,16,16,22,16,13,3,23,14,19,15", "zoneName": "Zone11", "id": 11},
+    {"od": "12,26,20,26,21,17,27,20,30,14,27,23,10,18,14,16", "zoneName": "Zone12", "id": 12},
+    {"od": "13,21,21,16,11,13,16,20,26,21,14,14,18,4,14,17", "zoneName": "Zone13", "id": 13},
+    {"od": "14,24,21,24,19,15,24,22,33,17,22,18,14,14,5,15", "zoneName": "Zone14", "id": 14},
+    {"od": "15,31,31,26,21,22,23,11,27,11,20,15,16,17,15,6", "zoneName": "Zone15", "id": 15}
+]

diff --git a/output_json/zonesODCTimes_json_v5.js b/output_json/zonesODCTimes_json_v5.js
@@ -1,0 +1,17 @@
+var zonesODCTimes_json = [
+    {"zoneName": "Zone1", "id": 1, "od": "1,10,13,11,11,12,14,20,21,20,14,17,17,14,16,18"},
+    {"zoneName": "Zone2", "id": 2, "od": "2,13,7,15,14,13,16,20,22,18,16,17,14,14,14,19"},
+    {"zoneName": "Zone3", "id": 3, "od": "3,11,15,9,11,12,12,17,18,18,12,15,17,12,16,16"},
+    {"zoneName": "Zone4", "id": 4, "od": "4,11,14,11,7,11,11,16,18,16,11,13,15,10,14,15"},
+    {"zoneName": "Zone5", "id": 5, "od": "5,12,13,12,11,9,13,17,19,16,13,15,13,11,12,15"},
+    {"zoneName": "Zone6", "id": 6, "od": "6,14,16,12,11,13,10,15,16,16,10,12,17,12,16,15"},
+    {"zoneName": "Zone7 - Universityy", "id": 7, "od": "7,20,20,17,16,17,15,10,14,11,13,12,15,14,15,11"},
+    {"zoneName": "Zone8", "id": 8, "od": "8,21,22,18,18,19,16,14,10,17,14,14,19,16,20,18"},
+    {"zoneName": "Zone9", "id": 9, "od": "9,20,18,18,16,16,16,11,17,10,15,13,12,15,13,11"},
+    {"zoneName": "Zone10", "id": 10, "od": "10,14,16,12,11,13,10,13,14,15,5,11,17,11,15,14"},
+    {"zoneName": "Zone11", "id": 11, "od": "11,17,17,15,13,15,12,12,14,13,11,3,16,12,14,12"},
+    {"zoneName": "Zone12", "id": 12, "od": "12,17,14,17,15,13,17,15,19,12,17,16,10,13,12,13"},
+    {"zoneName": "Zone13", "id": 13, "od": "13,14,14,12,10,11,12,14,16,15,11,12,13,4,11,13"},
+    {"zoneName": "Zone14", "id": 14, "od": "14,16,14,16,14,12,16,15,20,13,15,14,12,11,5,12"},
+    {"zoneName": "Zone15", "id": 15, "od": "15,18,19,17,15,15,15,11,18,11,14,12,13,13,12,6"}
+]

diff --git a/js/controllers/LinesCtrl.js b/js/controllers/LinesCtrl.js
@@ -44,6 +44,7 @@ app.controller('LinesCtrl', function($scope, $timeout, $rootScope){
     $scope.zones_json = zones_json
     $scope.nodes_json = nodes_json
     $scope.links_json = links_json
+    $scope.zonesODCTimes_json = zonesODCTimes_json
 
     $scope.zonesMaxProdAttr = 0
     $scope.zonesMaxVehTrips = 0

diff --git a/css/style.scss b/css/style.scss
@@ -179,6 +179,9 @@ body{
   top: 100%;
   left: 0;
 }
+.bar text {
+  fill: #222;
+}
 
 .bar-default .bar {fill: #009688;}
 .bar-black .bar {fill: #000000;}
